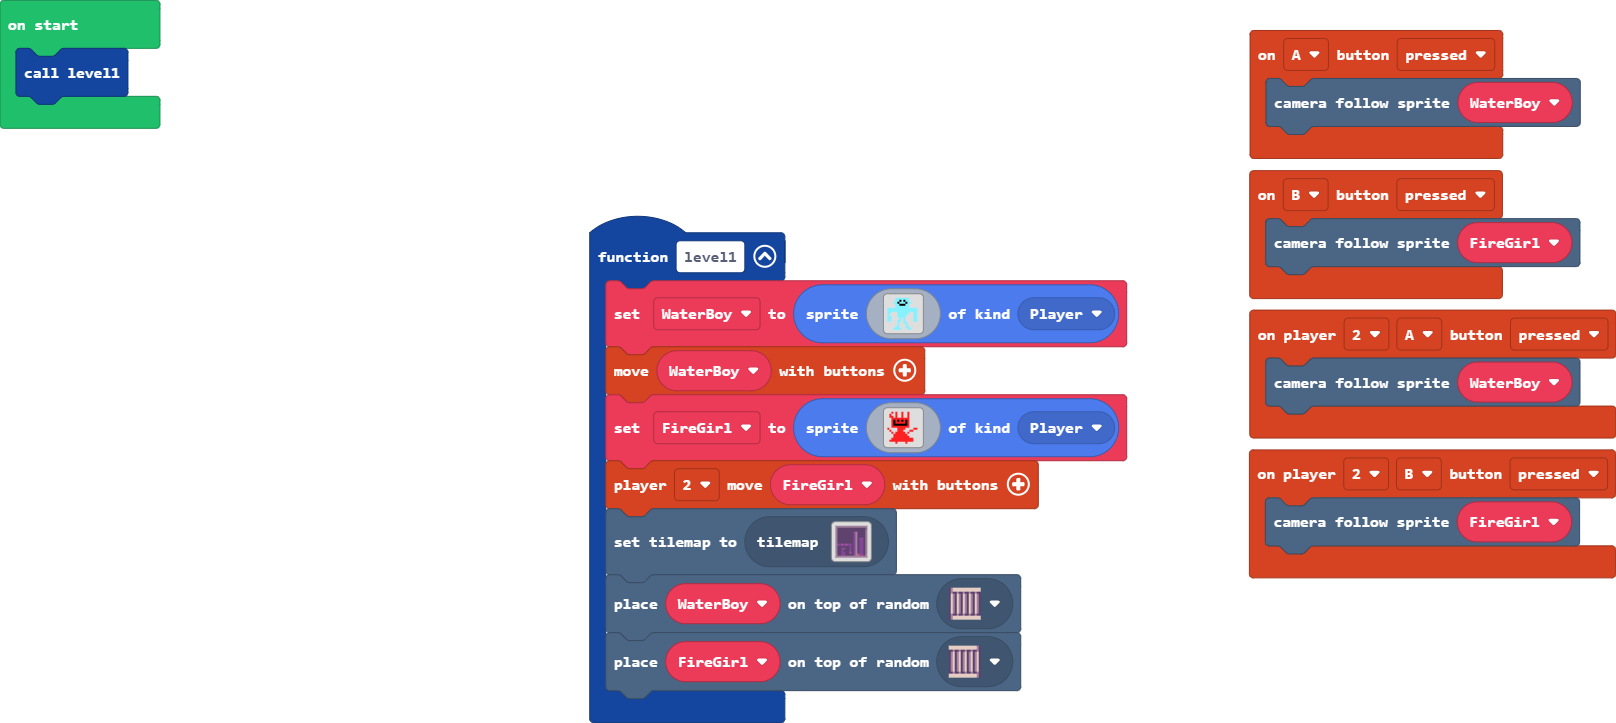
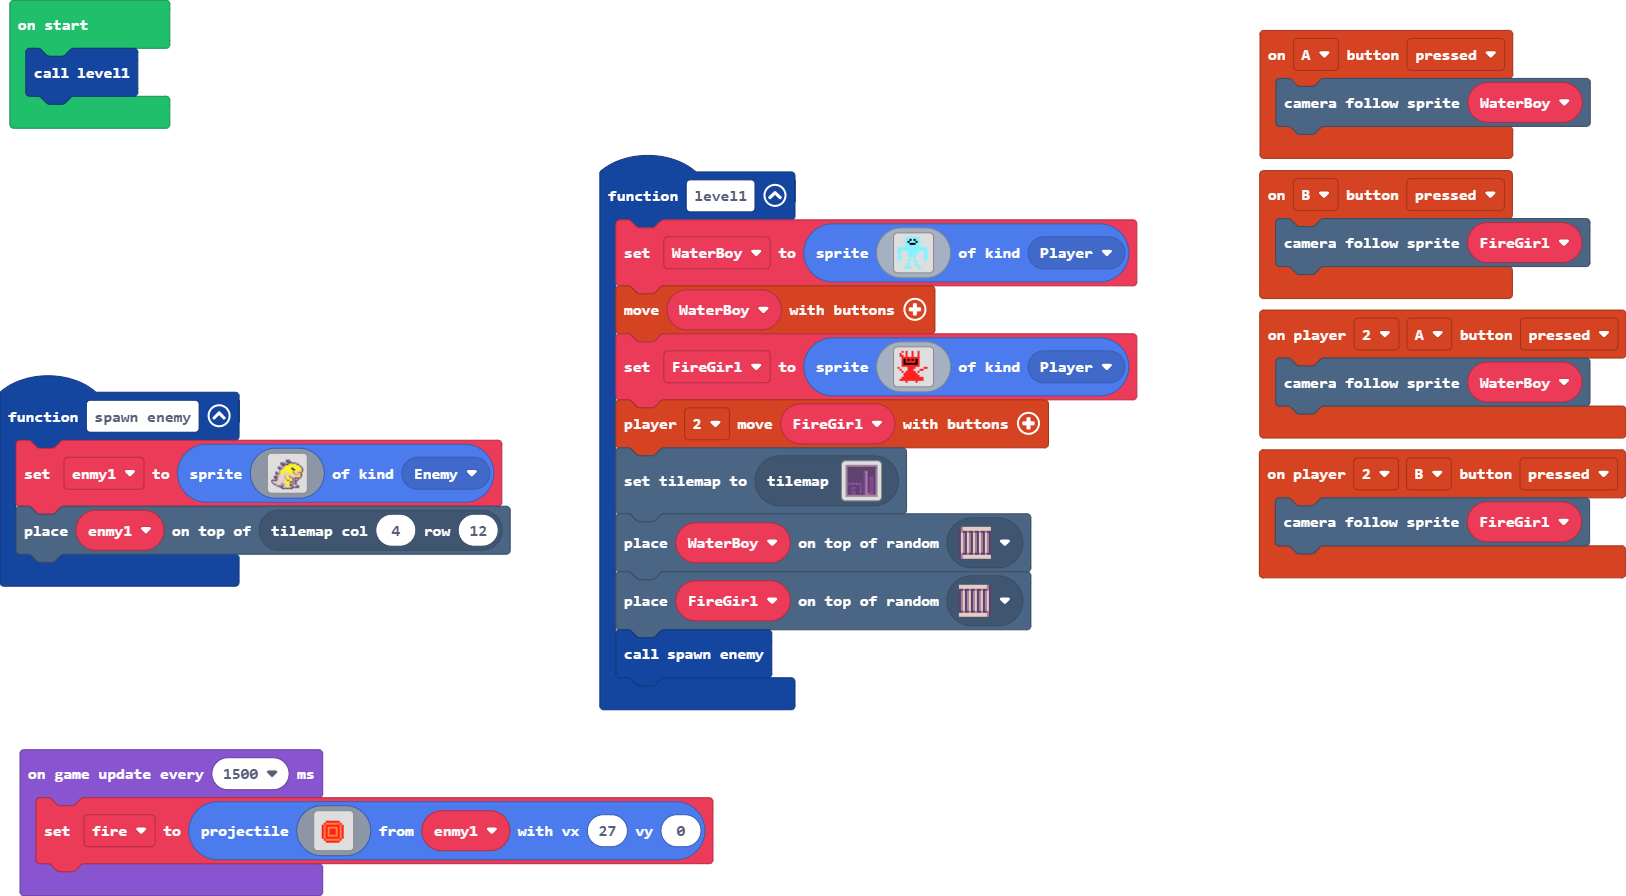
Update main.blocks, main.ts, tilemap.g.jres, tilemap.g.ts

diff --git a/main.ts b/main.ts
@@ -1,3 +1,32 @@
+function spawn_enemy () {
+    enmy1 = sprites.create(img`
+        ........................
+        ........................
+        ...........ccc..........
+        ...........cccc.........
+        .......ccc..ccccccc.....
+        .......cccccc555555cc...
+        ........ccb5555555555c..
+        .....cc..b555555555555c.
+        .....cccb555555ff155555c
+        ......cb55555555ff55d55c
+        ......b5555555555555555c
+        ...cc.b555dd5555bb13bbc.
+        ...cccd55ddddd555b3335c.
+        .....bdddddddddd55b335c.
+        ..cccdddddb55bbddd5555c.
+        ..cccdddddb555bbbbcccc..
+        ...ccddddddb5555cbcdc...
+        ccccbdddddd5cb55cbcc....
+        cddddddddd5555ccbbc.....
+        .cddddddbdd555bbbcc.....
+        ..ccdddbbbdd55cbcdc.....
+        ....ccbbcbddddccdddcc...
+        ......cccdd555dcccccc...
+        ........cccccccc........
+        `, SpriteKind.Enemy)
+    tiles.placeOnTile(enmy1, tiles.getTileLocation(4, 12))
+}
 controller.player2.onButtonEvent(ControllerButton.B, ControllerButtonEvent.Pressed, function () {
     scene.cameraFollowSprite(FireGirl)
 })
@@ -46,6 +75,7 @@ function level1 () {
     tiles.setCurrentTilemap(tilemap`level2`)
     tiles.placeOnRandomTile(WaterBoy, sprites.dungeon.stairEast)
     tiles.placeOnRandomTile(FireGirl, sprites.dungeon.stairWest)
+    spawn_enemy()
 }
 controller.A.onEvent(ControllerButtonEvent.Pressed, function () {
     scene.cameraFollowSprite(WaterBoy)
@@ -53,6 +83,28 @@ controller.A.onEvent(ControllerButtonEvent.Pressed, function () {
 controller.player2.onButtonEvent(ControllerButton.A, ControllerButtonEvent.Pressed, function () {
     scene.cameraFollowSprite(WaterBoy)
 })
+let fire: Sprite = null
 let WaterBoy: Sprite = null
 let FireGirl: Sprite = null
+let enmy1: Sprite = null
 level1()
+game.onUpdateInterval(1500, function () {
+    fire = sprites.createProjectileFromSprite(img`
+        . . . . . . . . . . . . . . . . 
+        . . . . . . . . . . . . . . . . 
+        . . . . . . . . . . . . . . . . 
+        . . . . 2 2 2 2 2 2 2 . . . . . 
+        . . . 2 4 4 4 4 4 4 4 2 . . . . 
+        . . 2 4 2 2 2 2 2 2 2 4 2 . . . 
+        . . 2 4 2 4 4 4 4 4 2 4 2 . . . 
+        . . 2 4 2 4 2 2 2 4 2 4 2 . . . 
+        . . 2 4 2 4 2 2 2 4 2 4 2 . . . 
+        . . 2 4 2 4 2 2 2 4 2 4 2 . . . 
+        . . 2 4 2 4 4 4 4 4 2 4 2 . . . 
+        . . 2 4 2 2 2 2 2 2 2 4 2 . . . 
+        . . . 2 4 4 4 4 4 4 4 2 . . . . 
+        . . . . 2 2 2 2 2 2 2 . . . . . 
+        . . . . . . . . . . . . . . . . 
+        . . . . . . . . . . . . . . . . 
+        `, enmy1, 27, 0)
+})

diff --git a/tilemap.g.ts b/tilemap.g.ts
@@ -29,18 +29,18 @@ namespace myTiles {
 2 2 2 2 2 2 2 2 2 2 2 2 2 2 2 2 
 2 . . . . . . . . . . . . . . . 
 2 . . . . . . . . . . . . . . 2 
-2 . . . . . . . . . . . . . . 2 
-2 . . . . . . . . . . . . . . 2 
-2 . . . . . . . . . . . . . . 2 
-2 . . . . . . . . . . . . . . 2 
-2 . . . . . . . . . . . . . . 2 
-2 . . . . . . . . . . . . . . 2 
-2 . . . . . . . . . . . . . . 2 
-2 . . . . . . . . . . . . . . 2 
-2 . . . . . . . . . . . . . . 2 
-2 . . . . . . . . . . . . . . 2 
-2 . . . . . . . . . . . . . . 2 
-. . . . . . . . . . . . . . . . 
+2 . . . . . . . . 2 2 . . . . 2 
+2 . . . . . . . . 2 2 . . . . 2 
+2 . . . . . . . . 2 2 . . . . 2 
+2 . . . . . . . . 2 2 . 2 2 . 2 
+2 . . . . . . . . 2 2 . 2 2 . 2 
+2 . . . . . . . . 2 2 . 2 2 . 2 
+2 2 2 2 2 2 2 2 . 2 2 . 2 2 . 2 
+2 . . . . . . 2 . 2 2 . 2 2 . 2 
+2 . . 2 2 . . 2 . 2 2 . 2 2 . 2 
+2 . . 2 . . . 2 . 2 2 . 2 2 . 2 
+2 . . 2 2 . . 2 . 2 2 . 2 2 . 2 
+. . . 2 2 . . . . 2 2 . 2 2 . . 
 2 2 2 2 2 2 2 2 2 2 2 2 2 2 2 2 
 `, [myTiles.transparency16,sprites.dungeon.floorDark1,sprites.dungeon.floorDark0,sprites.dungeon.floorDark4,sprites.dungeon.stairLarge,sprites.dungeon.stairEast,sprites.dungeon.stairWest,sprites.dungeon.stairLadder,sprites.dungeon.purpleOuterEast0,sprites.dungeon.purpleOuterNorthWest,sprites.dungeon.purpleOuterNorth1,sprites.dungeon.purpleOuterSouthEast,sprites.dungeon.purpleOuterWest0,sprites.dungeon.purpleOuterNorthEast,sprites.dungeon.purpleOuterNorth2,sprites.dungeon.purpleOuterEast2,sprites.dungeon.purpleOuterWest1,sprites.dungeon.darkGroundCenter,sprites.dungeon.purpleOuterSouthWest], TileScale.Sixteen);
         }
